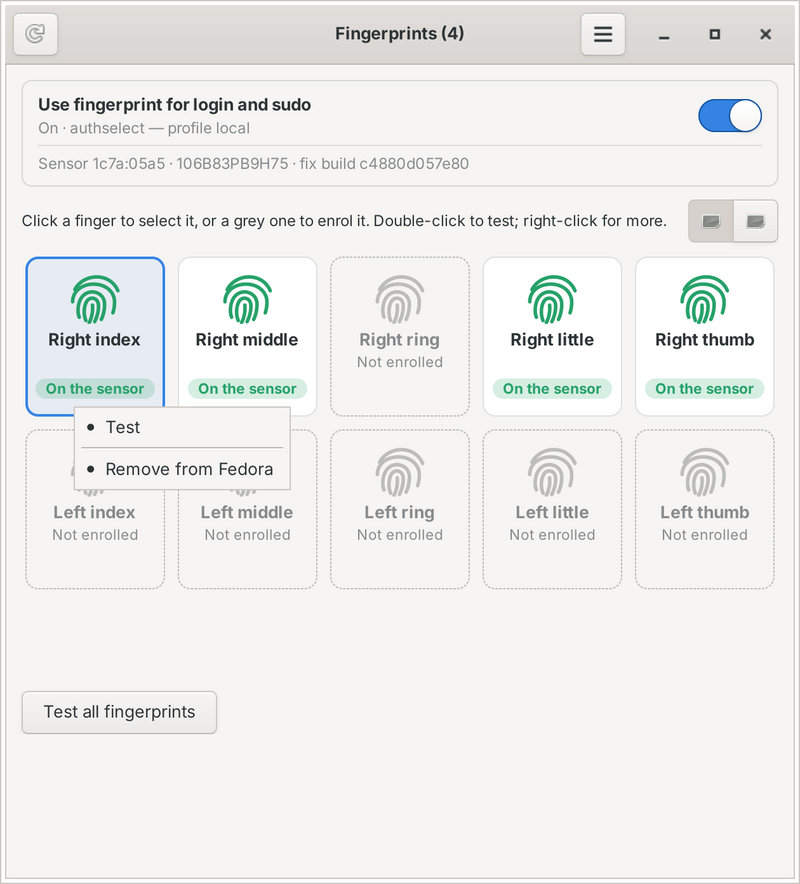
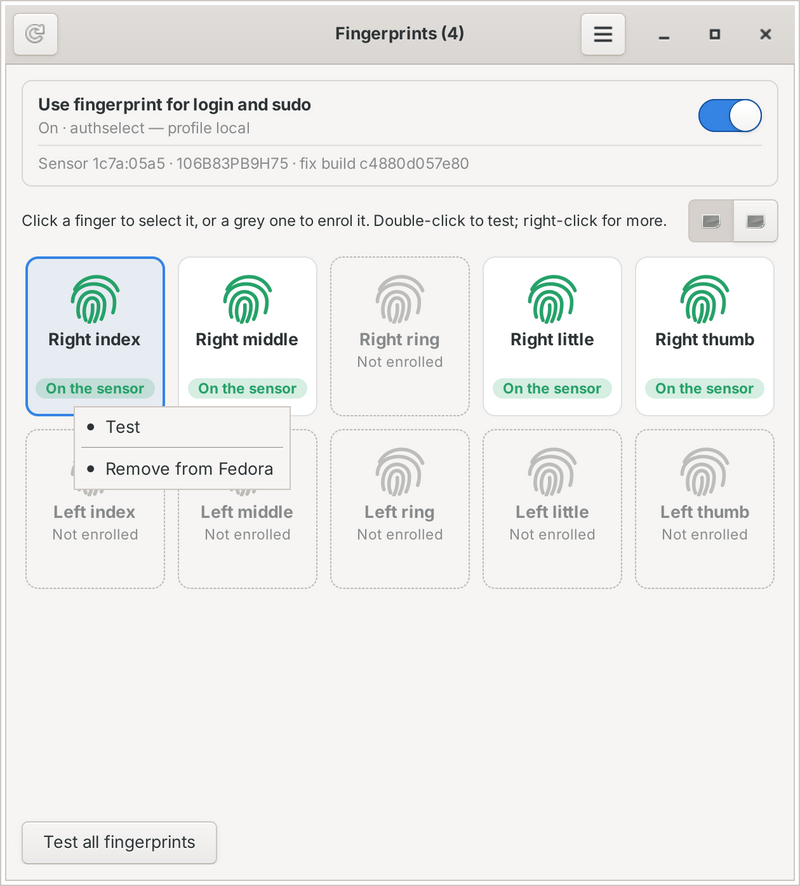
fingerprint-fix-sdcp: Manager buttons at the bottom, messages above them
Each tab's buttons (Test all fingerprints; Delete / Wipe sensor) move out of
the tab into a row at the very bottom that follows the tab; the reserved
message area sits just above them, with the message next to the buttons.

Claude-Session: https://claude.ai/code/session_013FdMZQZQ3wWX7YqT1JysNG

diff --git a/lib/fingerprint-manager.py b/lib/fingerprint-manager.py
@@ -420,8 +420,14 @@ class Manager(Gtk.Window):
         # Messages go at the bottom, in a slot that always keeps their room, so
         # nothing moves or resizes when one appears.
         self.msg_slot = Gtk.Box(orientation=Gtk.Orientation.VERTICAL)
-        self.msg_slot.pack_start(self.msg_bar, False, False, 0)
+        self.msg_slot.pack_end(self.msg_bar, False, False, 0)   # just above the buttons
         outer.pack_start(self.msg_slot, False, False, 0)
+        # Each tab's buttons sit under the message slot, at the very bottom.
+        self.btn_stack = Gtk.Stack()
+        outer.pack_start(self.btn_stack, False, False, 0)
+        self.stack.connect("notify::visible-child-name",
+                           lambda st, _p: self.btn_stack.set_visible_child_name(
+                               st.get_visible_child_name()))
 
         # ── page 1: fingerprints on this install — cards (icons) or rows (list) ──
         self.records = []                 # the status records shown, in order
@@ -480,7 +486,7 @@ class Manager(Gtk.Window):
         # Remove is in the right-click menu (and the Delete key), not a button.
         for w in (self.cards, self.rows):
             w.connect("key-press-event", self._on_fingers_key)
-        page.pack_start(row, False, False, 0)
+        self.btn_stack.add_named(row, "fingers")
         self.stack.add_titled(page, "fingers", "Fingerprints")
 
         # ── page 2: templates on the sensor — cards with free slots, or a list ──
@@ -532,7 +538,7 @@ class Manager(Gtk.Window):
         self.wipe_btn.set_tooltip_text("Delete every template on the sensor — every install and Windows")
         self.wipe_btn.connect("clicked", self.on_wipe)
         row.pack_end(self.wipe_btn, False, False, 0)
-        page.pack_start(row, False, False, 0)
+        self.btn_stack.add_named(row, "sensor")
         self.stack.add_titled(page, "sensor", "Sensor")
         self.sensor_page = page
         self.pages = {"fingers": "Fingerprints", "sensor": "Sensor"}
